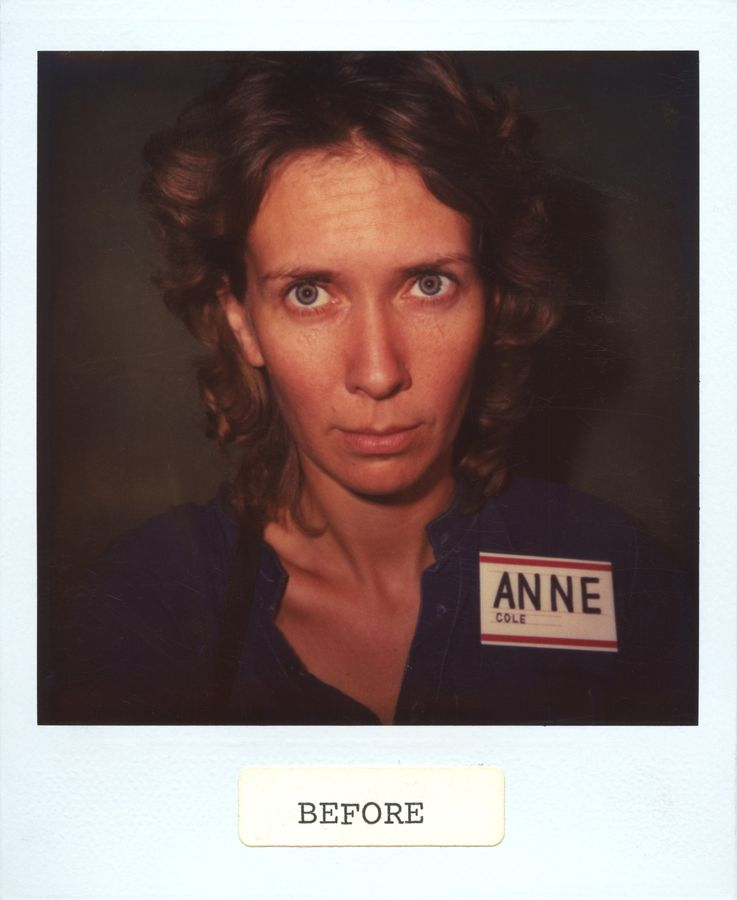
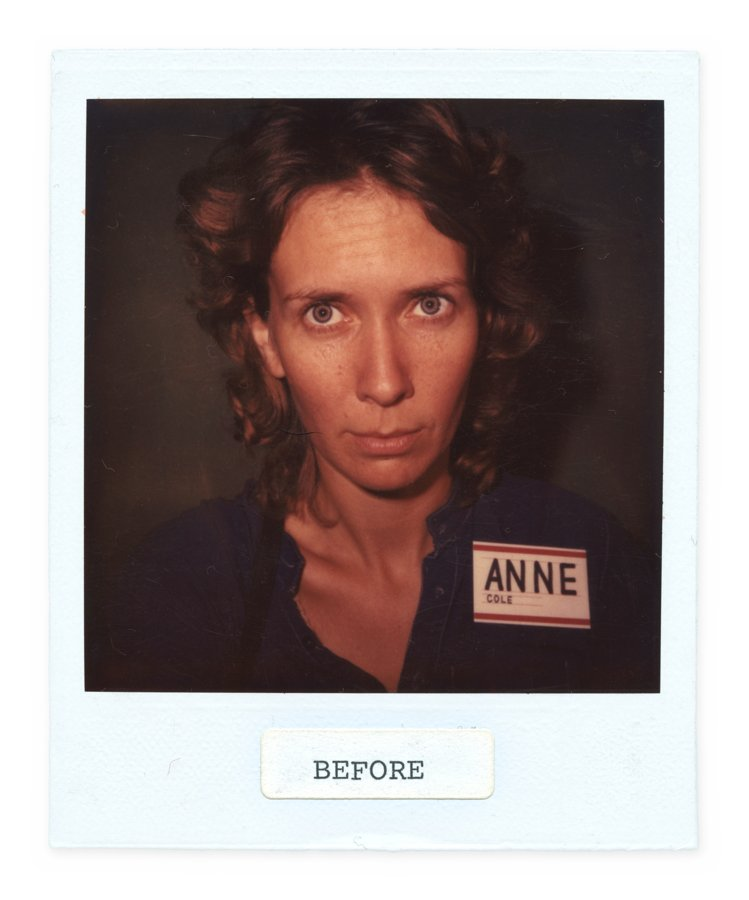
Sync captions with portfolio: venue years, Polaroid, Ambulance Chasers dims, studio view
Claude-Session: https://claude.ai/code/session_01JVoaYGW79WXXRpj5iE4Fxm

diff --git a/projects/contact.html b/projects/contact.html
@@ -9,5 +9,5 @@
 <link rel="apple-touch-icon" href="../apple-touch-icon.png">
 </head><body>
 <header><a class="name" href="../index.html">Abraham Adams</a><nav><a href="../index.html" aria-current="page">projects</a><a href="../books.html">books</a><a href="../exhibitions.html">exhibitions</a><a href="../cv.html">cv</a><a href="../info.html">info</a></nav></header>
-<main><article class="work"><h1>“Contact,” 2024–</h1><p class="desc">“Contact” is a series of views through antique encyclopedia pages held up to light so that front and back form chance combinations of text and image.</p><p class="essay-link"><button type="button" onclick="document.getElementById('essay').showModal()">Read David Joselit’s foreword to “Contact”</button></p><dialog id="essay" class="essay" onclick="if(event.target===this)this.close()"><div class="essay-inner"><button type="button" class="essay-close" aria-label="Close" onclick="this.closest('dialog').close()">×</button><p class="essay-kicker">Foreword</p><h2>“Contact”</h2><p class="essay-by">David Joselit</p><p>As a noun, <em>contact</em> denotes diverse forms of interpersonal encounter across different scales—a clash of civilizations (<em>first contact</em>), an erotic adventure (<em>sexual contact</em>), physical tournaments (<em>contact sports</em>), or someone’s personal information stored in your phone. Each type of contact constitutes a social configuration with its own choreography and power relations. In photography, as in other mechanical procedures, <em>contact</em> has a technical meaning: a contact print is one whose image appears by placing a negative on a photo-sensitive surface and then applying light in the controlled setting of a darkroom. As a verb, <em>contact</em> performs the imperative to engage (“Contact me immediately,” says every text ever). The photographs in Abraham Adams’ <em>Contact</em> rearticulate these three dimensions of contact—the physical, the technical, and the imperative—in enactments of connection across difference and loss.</p><p>Adams’ photographs emerge from a chain of physical touch: each print is made from a section cut from an <em>Encyclopedia Britannica</em> owned by the artist’s father who died in 1988 while moving his books. The touch of the father is reanimated by the touch of the son suggesting an oedipal drama. The cut-outs follow the outlines of diagrams on one side of pages with unrelated texts on the other. These sheets are then mounted on a window and photographed with a Macro lens. The daylight shining into Adams’ “lightroom” studio creates a kind of contact print in which both sides of the thin paper, one representing a diagram and the other a text, appear superimposed upon one another in the resulting image (where the verso is seen in reverse). In short, through contact with the sun (homophonic with the son), the readymade paper negative brings two faces of a single page into graphic contact with one another. There is a poignancy in any sheet of printed paper—the page is a single material, but what is printed on either side can never touch, never be seen at once. Adams’ photographs stage an imperative to make contact across this conjuncture of sameness and difference—the Janus face of the printed page. In the end this is not an oedipal but an anti-oedipal form of photography: the sameness and difference represented in the relation between father and son, who are joined by shared genetic and family heritage, but who like the sheet of paper, have two distinct faces, two distinct relations to language, are not submitted to an oedipal contest for domination as Freudian theory would indicate. Instead, they are held in fraternal suspension as a chimerical hybrid.</p><p>Knowing the source of the photographs in <em>Contact</em> enriches the work, but its anti-oedipal dimension is legible without the backstory. In later theorizations of the Oedipus complex, flowing from the Freudian revision of Jacques Lacan, oedipal authority is aligned with linguistic authority—what Lacan called “The Name of the Father.” In Adams’ photographs the authority of language is disseminated through its contamination by diagrammatic representations (as well as the cutting of semantic units and the reversal of letters). Text is radically spatialized, returned to the sources of alphabetic signs as images. These photographs are poems of a very specific kind because their poetics articulates the diagrammatic and the syntagmatic together as they are embedded in the skin of the page, whose half-tone “pigmentation” and pulpy blemishes are perfectly visible in the prints. Knowledge is a form of tattooing here, which rhymes with Adams’ method of cutting. It is a cutting without castration; a form of loss—of language (and of the father)—that need not result in submission to the law. An anti-oedipal photography.</p></div></dialog><figure><img src="../img/contact-01.jpg?v=aa30c2a7" width="2000" height="2000" alt="Contact, 2024" loading="eager"><figcaption><em>Contact</em>, 2024. Framed ink-jet print, 31 cm square. Installation view, “Zygote,” Culterim Gallery, Berlin.</figcaption></figure><figure><img src="../img/contact-02.jpg?v=1a8912a0" width="2400" height="2400" alt="Detail" loading="lazy"><figcaption>Detail.</figcaption></figure><figure><img src="../img/contact-03.jpg?v=68327e1c" width="1920" height="2400" alt="Contact, 2024" loading="lazy"><figcaption><em>Contact</em>, 2024. Framed ink-jet print, 31 cm square. Installation view, “Zygote,” Culterim Gallery, Berlin.</figcaption></figure><figure><img src="../img/contact-04.jpg?v=c5fde0a6" width="2400" height="2400" alt="Detail" loading="lazy"><figcaption>Detail.</figcaption></figure><figure><img src="../img/contact-05.jpg?v=f6220687" width="1920" height="2400" alt="Contact, 2024" loading="lazy"><figcaption><em>Contact</em>, 2024. Framed ink-jet print, 31.5 × 29.5 cm. Installation view, “Zygote,” Culterim Gallery, Berlin.</figcaption></figure><figure><img src="../img/contact-06.jpg?v=7635da03" width="2180" height="1774" alt="Detail" loading="lazy"><figcaption>Detail.</figcaption></figure><figure><img src="../img/contact-07.jpg?v=776ce2a5" width="1920" height="2400" alt="Contact, 2024" loading="lazy"><figcaption><em>Contact</em>, 2024. Framed ink-jet print, 31 cm square.</figcaption></figure><figure><img src="../img/contact-08.jpg?v=7cf73221" width="1920" height="2400" alt="Contact, 2024" loading="lazy"><figcaption><em>Contact</em>, 2024. Framed ink-jet print, 31 cm square.</figcaption></figure></article></main>
+<main><article class="work"><h1>“Contact,” 2024–</h1><p class="desc">“Contact” is a series of views through antique encyclopedia pages held up to light so that front and back form chance combinations of text and image.</p><p class="essay-link"><button type="button" onclick="document.getElementById('essay').showModal()">Read David Joselit’s foreword to “Contact”</button></p><dialog id="essay" class="essay" onclick="if(event.target===this)this.close()"><div class="essay-inner"><button type="button" class="essay-close" aria-label="Close" onclick="this.closest('dialog').close()">×</button><p class="essay-kicker">Foreword</p><h2>“Contact”</h2><p class="essay-by">David Joselit</p><p>As a noun, <em>contact</em> denotes diverse forms of interpersonal encounter across different scales—a clash of civilizations (<em>first contact</em>), an erotic adventure (<em>sexual contact</em>), physical tournaments (<em>contact sports</em>), or someone’s personal information stored in your phone. Each type of contact constitutes a social configuration with its own choreography and power relations. In photography, as in other mechanical procedures, <em>contact</em> has a technical meaning: a contact print is one whose image appears by placing a negative on a photo-sensitive surface and then applying light in the controlled setting of a darkroom. As a verb, <em>contact</em> performs the imperative to engage (“Contact me immediately,” says every text ever). The photographs in Abraham Adams’ <em>Contact</em> rearticulate these three dimensions of contact—the physical, the technical, and the imperative—in enactments of connection across difference and loss.</p><p>Adams’ photographs emerge from a chain of physical touch: each print is made from a section cut from an <em>Encyclopedia Britannica</em> owned by the artist’s father who died in 1988 while moving his books. The touch of the father is reanimated by the touch of the son suggesting an oedipal drama. The cut-outs follow the outlines of diagrams on one side of pages with unrelated texts on the other. These sheets are then mounted on a window and photographed with a Macro lens. The daylight shining into Adams’ “lightroom” studio creates a kind of contact print in which both sides of the thin paper, one representing a diagram and the other a text, appear superimposed upon one another in the resulting image (where the verso is seen in reverse). In short, through contact with the sun (homophonic with the son), the readymade paper negative brings two faces of a single page into graphic contact with one another. There is a poignancy in any sheet of printed paper—the page is a single material, but what is printed on either side can never touch, never be seen at once. Adams’ photographs stage an imperative to make contact across this conjuncture of sameness and difference—the Janus face of the printed page. In the end this is not an oedipal but an anti-oedipal form of photography: the sameness and difference represented in the relation between father and son, who are joined by shared genetic and family heritage, but who like the sheet of paper, have two distinct faces, two distinct relations to language, are not submitted to an oedipal contest for domination as Freudian theory would indicate. Instead, they are held in fraternal suspension as a chimerical hybrid.</p><p>Knowing the source of the photographs in <em>Contact</em> enriches the work, but its anti-oedipal dimension is legible without the backstory. In later theorizations of the Oedipus complex, flowing from the Freudian revision of Jacques Lacan, oedipal authority is aligned with linguistic authority—what Lacan called “The Name of the Father.” In Adams’ photographs the authority of language is disseminated through its contamination by diagrammatic representations (as well as the cutting of semantic units and the reversal of letters). Text is radically spatialized, returned to the sources of alphabetic signs as images. These photographs are poems of a very specific kind because their poetics articulates the diagrammatic and the syntagmatic together as they are embedded in the skin of the page, whose half-tone “pigmentation” and pulpy blemishes are perfectly visible in the prints. Knowledge is a form of tattooing here, which rhymes with Adams’ method of cutting. It is a cutting without castration; a form of loss—of language (and of the father)—that need not result in submission to the law. An anti-oedipal photography.</p></div></dialog><figure><img src="../img/contact-01.jpg?v=aa30c2a7" width="2000" height="2000" alt="Contact, 2024" loading="eager"><figcaption><em>Contact</em>, 2024. Framed ink-jet print, 31 cm square. Installation view, “Zygote,” Culterim Gallery, Berlin, 2024.</figcaption></figure><figure><img src="../img/contact-02.jpg?v=1a8912a0" width="2400" height="2400" alt="Detail" loading="lazy"><figcaption>Detail.</figcaption></figure><figure><img src="../img/contact-03.jpg?v=68327e1c" width="1920" height="2400" alt="Contact, 2024" loading="lazy"><figcaption><em>Contact</em>, 2024. Framed ink-jet print, 31 cm square. Installation view, “Zygote,” Culterim Gallery, Berlin, 2024.</figcaption></figure><figure><img src="../img/contact-04.jpg?v=c5fde0a6" width="2400" height="2400" alt="Detail" loading="lazy"><figcaption>Detail.</figcaption></figure><figure><img src="../img/contact-05.jpg?v=f6220687" width="1920" height="2400" alt="Contact, 2024" loading="lazy"><figcaption><em>Contact</em>, 2024. Framed ink-jet print, 31.5 × 29.5 cm. Installation view, “Zygote,” Culterim Gallery, Berlin, 2024.</figcaption></figure><figure><img src="../img/contact-06.jpg?v=7635da03" width="2180" height="1774" alt="Detail" loading="lazy"><figcaption>Detail.</figcaption></figure><figure><img src="../img/contact-07.jpg?v=776ce2a5" width="1920" height="2400" alt="Contact, 2024" loading="lazy"><figcaption><em>Contact</em>, 2024. Framed ink-jet print, 31 cm square.</figcaption></figure><figure><img src="../img/contact-08.jpg?v=7cf73221" width="1920" height="2400" alt="Contact, 2024" loading="lazy"><figcaption><em>Contact</em>, 2024. Framed ink-jet print, 31 cm square.</figcaption></figure></article></main>
 </body></html>

diff --git a/projects/a-conversation-about-trees.html b/projects/a-conversation-about-trees.html
@@ -9,5 +9,5 @@
 <link rel="apple-touch-icon" href="../apple-touch-icon.png">
 </head><body>
 <header><a class="name" href="../index.html">Abraham Adams</a><nav><a href="../index.html" aria-current="page">projects</a><a href="../books.html">books</a><a href="../exhibitions.html">exhibitions</a><a href="../cv.html">cv</a><a href="../info.html">info</a></nav></header>
-<main><article class="work"><h1><em>A Conversation About Trees</em>, 2025</h1><p class="desc"><em>A Conversation About Trees</em> is a film in which Adams discusses, with a hired psychoanalyst, the text of a dream reported by an artist who abandoned his practice. Their conversation is interspersed with texts by thinkers invited to consult, including David Joselit and Peter Szendy, on how that artist’s career might be continued without him. The film is set to footage of trees in the backgrounds of portraits of people Adams knew who have died. A companion to <a href="more-heavens.html">“More Heavens,”</a> it debuted at Flowers Fest, Essex Flowers, New York, on September 5, 2025.</p><p class="essay-link"><button type="button" onclick="var d=document.getElementById('film');d.querySelector('iframe').src='https://drive.google.com/file/d/1cf2J5qs1f9mSkI3Mwp0rMFJhp1JUy4nH/preview';d.showModal()">Watch the film here</button></p><dialog id="film" class="film" onclick="if(event.target===this)this.close()" onclose="this.querySelector('iframe').src='about:blank'"><button type="button" class="film-close" aria-label="Close" onclick="this.closest('dialog').close()">×</button><div class="embed"><iframe src="about:blank" allow="autoplay; fullscreen" allowfullscreen title="A Conversation About Trees"></iframe></div></dialog><figure><img src="../img/a-conversation-about-trees-01.jpg?v=c77eef64" width="1448" height="1086" alt="A Conversation About Trees, 2025" loading="eager"><figcaption><em>A Conversation About Trees</em>, 2025. Digital video, 57 min. Installation view, “Memory Put a Walkway,” Lime Wharf, London.</figcaption></figure><figure><img src="../img/a-conversation-about-trees-02.jpg?v=1a178ca3" width="2400" height="1261" alt="Still" loading="lazy"><figcaption>Still.</figcaption></figure></article></main>
+<main><article class="work"><h1><em>A Conversation About Trees</em>, 2025</h1><p class="desc"><em>A Conversation About Trees</em> is a film in which Adams discusses, with a hired psychoanalyst, the text of a dream reported by an artist who abandoned his practice. Their conversation is interspersed with texts by thinkers invited to consult, including David Joselit and Peter Szendy, on how that artist’s career might be continued without him. The film is set to footage of trees in the backgrounds of portraits of people Adams knew who have died. A companion to <a href="more-heavens.html">“More Heavens,”</a> it debuted at Flowers Fest, Essex Flowers, New York, on September 5, 2025.</p><p class="essay-link"><button type="button" onclick="var d=document.getElementById('film');d.querySelector('iframe').src='https://drive.google.com/file/d/1cf2J5qs1f9mSkI3Mwp0rMFJhp1JUy4nH/preview';d.showModal()">Watch the film here</button></p><dialog id="film" class="film" onclick="if(event.target===this)this.close()" onclose="this.querySelector('iframe').src='about:blank'"><button type="button" class="film-close" aria-label="Close" onclick="this.closest('dialog').close()">×</button><div class="embed"><iframe src="about:blank" allow="autoplay; fullscreen" allowfullscreen title="A Conversation About Trees"></iframe></div></dialog><figure><img src="../img/a-conversation-about-trees-01.jpg?v=c77eef64" width="1448" height="1086" alt="A Conversation About Trees, 2025" loading="eager"><figcaption><em>A Conversation About Trees</em>, 2025. Digital video, 57 min. Installation view, “Memory Put a Walkway,” Lime Wharf, London, 2025.</figcaption></figure><figure><img src="../img/a-conversation-about-trees-02.jpg?v=1a178ca3" width="2400" height="1261" alt="Still" loading="lazy"><figcaption>Still.</figcaption></figure></article></main>
 </body></html>

diff --git a/projects/ambulance-chasers.html b/projects/ambulance-chasers.html
@@ -9,5 +9,5 @@
 <link rel="apple-touch-icon" href="../apple-touch-icon.png">
 </head><body>
 <header><a class="name" href="../index.html">Abraham Adams</a><nav><a href="../index.html" aria-current="page">projects</a><a href="../books.html">books</a><a href="../exhibitions.html">exhibitions</a><a href="../cv.html">cv</a><a href="../info.html">info</a></nav></header>
-<main><article class="work"><h1><em>Ambulance Chasers</em>, MIT Press, 2022</h1><p class="desc"><em>Ambulance Chasers</em> is a series of photographic diptychs: on the left, a close-up on a personal-injury lawyer from a billboard; on the right, the landscape it is facing. A text by the art historian David Joselit runs alongside the series, and the book concludes with a long conversation between Adams and Joselit. <a href="https://mitpress.mit.edu/9780262047104/ambulance-chasers/">MIT Press ↗</a></p><figure><img src="../img/ambulance-chasers-01.jpg?v=741bd073" width="2400" height="1920" alt="Ambulance Chasers, MIT Press, 2022" loading="eager"><figcaption><em>Ambulance Chasers</em>, MIT Press, 2022. Artist’s book with a text by David Joselit, 136 pp., 62 figures, 10 × 9 in.</figcaption></figure><figure><img src="../img/ambulance-chasers-02.jpg?v=e8bd89e0" width="2400" height="2160" alt="Ambulance Chasers, 2022" loading="lazy"><figcaption><em>Ambulance Chasers</em>, 2022. Digital color photographs, each 10 × 9 in.</figcaption></figure><figure><img src="../img/ambulance-chasers-03.jpg?v=51eb50c9" width="2400" height="2400" alt="Detail" loading="lazy"><figcaption>Detail.</figcaption></figure><figure><img src="../img/ambulance-chasers-04.jpg?v=6d0a6171" width="2400" height="2160" alt="Ambulance Chasers, 2022" loading="lazy"><figcaption><em>Ambulance Chasers</em>, 2022. Digital color photographs, each 10 × 9 in.</figcaption></figure><figure><img src="../img/ambulance-chasers-06.jpg?v=f785861e" width="2400" height="2160" alt="Ambulance Chasers, 2022" loading="lazy"><figcaption><em>Ambulance Chasers</em>, 2022. Digital color photographs, each 10 × 9 in.</figcaption></figure></article></main>
+<main><article class="work"><h1><em>Ambulance Chasers</em>, MIT Press, 2022</h1><p class="desc"><em>Ambulance Chasers</em> is a series of photographic diptychs: on the left, a close-up on a personal-injury lawyer from a billboard; on the right, the landscape it is facing. A text by the art historian David Joselit runs alongside the series, and the book concludes with a long conversation between Adams and Joselit. <a href="https://mitpress.mit.edu/9780262047104/ambulance-chasers/">MIT Press ↗</a></p><figure><img src="../img/ambulance-chasers-01.jpg?v=741bd073" width="2400" height="1920" alt="Ambulance Chasers, MIT Press, 2022" loading="eager"><figcaption><em>Ambulance Chasers</em>, MIT Press, 2022. Artist’s book with a text by David Joselit, 136 pp., 62 figures, 10 × 9 in.</figcaption></figure><figure><img src="../img/ambulance-chasers-02.jpg?v=e8bd89e0" width="2400" height="2160" alt="Ambulance Chasers, 2022" loading="lazy"><figcaption><em>Ambulance Chasers</em>, 2022. Digital color photographs, 10 × 9 in.</figcaption></figure><figure><img src="../img/ambulance-chasers-03.jpg?v=51eb50c9" width="2400" height="2400" alt="Detail" loading="lazy"><figcaption>Detail.</figcaption></figure><figure><img src="../img/ambulance-chasers-04.jpg?v=6d0a6171" width="2400" height="2160" alt="Ambulance Chasers, 2022" loading="lazy"><figcaption><em>Ambulance Chasers</em>, 2022. Digital color photographs, 10 × 9 in.</figcaption></figure><figure><img src="../img/ambulance-chasers-06.jpg?v=f785861e" width="2400" height="2160" alt="Ambulance Chasers, 2022" loading="lazy"><figcaption><em>Ambulance Chasers</em>, 2022. Digital color photographs, 10 × 9 in.</figcaption></figure></article></main>
 </body></html>

diff --git a/projects/more-heavens.html b/projects/more-heavens.html
@@ -9,5 +9,5 @@
 <link rel="apple-touch-icon" href="../apple-touch-icon.png">
 </head><body>
 <header><a class="name" href="../index.html">Abraham Adams</a><nav><a href="../index.html" aria-current="page">projects</a><a href="../books.html">books</a><a href="../exhibitions.html">exhibitions</a><a href="../cv.html">cv</a><a href="../info.html">info</a></nav></header>
-<main><article class="work"><h1>“More Heavens,” 2025–</h1><p class="desc">“More Heavens” draws on skilled assistants and a panel of eminent consultants, including David Joselit, Peter Szendy, and Alex Jovanovich, to speculatively continue the career of an artist who abandoned his practice. The series proceeds from a re-creation, from Adams’s memory, of the artist’s final, lost work.</p><figure><img src="../img/more-heavens-01.jpg?v=1e69b1fb" width="2400" height="1600" alt="More Heavens, 2025" loading="eager"><figcaption><em>More Heavens</em>, 2025. Oil paint on primed canvas, 190 × 280 cm. Installation view, “Memory Put a Walkway,” Lime Wharf, London.</figcaption></figure><figure><img src="../img/more-heavens-02.jpg?v=e354844e" width="2400" height="1600" alt="Detail" loading="lazy"><figcaption>Detail.</figcaption></figure><figure><img src="../img/more-heavens-03.jpg?v=b160031a" width="2400" height="1666" alt="More Heavens, 2025" loading="lazy"><figcaption><em>More Heavens</em>, 2025. Oil paint on primed canvas, 190 × 280 cm.</figcaption></figure><figure><img src="../img/more-heavens-05.jpg?v=118479b7" width="2400" height="1628" alt="More Heavens, 2025" loading="lazy"><figcaption><em>More Heavens</em>, 2025. Oil paint on primed canvas, 190 × 280 cm.</figcaption></figure><figure><img src="../img/more-heavens-07.jpg?v=62e4813f" width="2400" height="1627" alt="More Heavens, 2025" loading="lazy"><figcaption><em>More Heavens</em>, 2025. Oil paint on primed canvas, 190 × 280 cm.</figcaption></figure></article></main>
+<main><article class="work"><h1>“More Heavens,” 2025–</h1><p class="desc">“More Heavens” draws on skilled assistants and a panel of eminent consultants, including David Joselit, Peter Szendy, and Alex Jovanovich, to speculatively continue the career of an artist who abandoned his practice. The series proceeds from a re-creation, from Adams’s memory, of the artist’s final, lost work.</p><figure><img src="../img/more-heavens-01.jpg?v=1e69b1fb" width="2400" height="1600" alt="More Heavens, 2025" loading="eager"><figcaption><em>More Heavens</em>, 2025. Oil paint on primed canvas, 190 × 280 cm. Installation view, “Memory Put a Walkway,” Lime Wharf, London, 2025.</figcaption></figure><figure><img src="../img/more-heavens-02.jpg?v=e354844e" width="2400" height="1600" alt="Detail" loading="lazy"><figcaption>Detail.</figcaption></figure><figure><img src="../img/more-heavens-03.jpg?v=b160031a" width="2400" height="1666" alt="More Heavens, 2025" loading="lazy"><figcaption><em>More Heavens</em>, 2025. Oil paint on primed canvas, 190 × 280 cm.</figcaption></figure><figure><img src="../img/more-heavens-05.jpg?v=118479b7" width="2400" height="1628" alt="More Heavens, 2025" loading="lazy"><figcaption><em>More Heavens</em>, 2025. Oil paint on primed canvas, 190 × 280 cm.</figcaption></figure><figure><img src="../img/more-heavens-07.jpg?v=62e4813f" width="2400" height="1627" alt="More Heavens, 2025" loading="lazy"><figcaption><em>More Heavens</em>, 2025. Oil paint on primed canvas, 190 × 280 cm.</figcaption></figure></article></main>
 </body></html>

diff --git a/projects/installation-for-a-photograph.html b/projects/installation-for-a-photograph.html
@@ -9,5 +9,5 @@
 <link rel="apple-touch-icon" href="../apple-touch-icon.png">
 </head><body>
 <header><a class="name" href="../index.html">Abraham Adams</a><nav><a href="../index.html" aria-current="page">projects</a><a href="../books.html">books</a><a href="../exhibitions.html">exhibitions</a><a href="../cv.html">cv</a><a href="../info.html">info</a></nav></header>
-<main><article class="work"><h1><em>Installation for a Photograph</em>, 2014–15</h1><p class="desc"><em>Installation for a Photograph</em> (with Karin Schneider) is an installation responding to an original work by Andy Warhol displayed face-down on the floor.</p><figure><img src="../img/installation-for-a-photograph-01.jpg?v=4fceab44" width="1798" height="2400" alt="Installation for a Photograph, 2014 (with Karin Schneider and John Miller)" loading="eager"><figcaption><em>Installation for a Photograph</em>, 2014 (with Karin Schneider and John Miller). Installation, dimensions variable. Shown in “No Games Inside the Labyrinth,” Galerie Barbara Weiss, Berlin.</figcaption></figure><figure><img src="../img/installation-for-a-photograph-03.jpg?v=4e3d8eec" width="1600" height="1139" alt="Installation view" loading="lazy"><figcaption>Installation view, “No Games Inside the Labyrinth,” Galerie Barbara Weiss, Berlin, 2014.</figcaption></figure><figure><img src="../img/installation-for-a-photograph-04.jpg?v=ad0a1994" width="1600" height="1234" alt="Installation view" loading="lazy"><figcaption>Installation view, “No Games Inside the Labyrinth,” Galerie Barbara Weiss, Berlin, 2014.</figcaption></figure></article></main>
+<main><article class="work"><h1><em>Installation for a Photograph</em>, 2014–15</h1><p class="desc"><em>Installation for a Photograph</em> (with Karin Schneider) is an installation responding to an original work by Andy Warhol displayed face-down on the floor.</p><figure><img src="../img/installation-for-a-photograph-01.jpg?v=4fceab44" width="1798" height="2400" alt="Installation for a Photograph, 2014 (with Karin Schneider and John Miller)" loading="eager"><figcaption><em>Installation for a Photograph</em>, 2014 (with Karin Schneider and John Miller). Installation, dimensions variable. Shown in “No Games Inside the Labyrinth,” Galerie Barbara Weiss, Berlin, 2014.</figcaption></figure><figure><img src="../img/installation-for-a-photograph-03.jpg?v=4e3d8eec" width="1600" height="1139" alt="Installation view" loading="lazy"><figcaption>Installation view, “No Games Inside the Labyrinth,” Galerie Barbara Weiss, Berlin, 2014.</figcaption></figure><figure><img src="../img/installation-for-a-photograph-04.jpg?v=ad0a1994" width="1600" height="1234" alt="Installation view" loading="lazy"><figcaption>Installation view, “No Games Inside the Labyrinth,” Galerie Barbara Weiss, Berlin, 2014.</figcaption></figure></article></main>
 </body></html>

diff --git a/projects/after.html b/projects/after.html
@@ -9,5 +9,5 @@
 <link rel="apple-touch-icon" href="../apple-touch-icon.png">
 </head><body>
 <header><a class="name" href="../index.html">Abraham Adams</a><nav><a href="../index.html" aria-current="page">projects</a><a href="../books.html">books</a><a href="../exhibitions.html">exhibitions</a><a href="../cv.html">cv</a><a href="../info.html">info</a></nav></header>
-<main><article class="work"><h1>“After,” 2021–</h1><p class="desc">“After” excerpts WWI-era family-archive photographs inside frames shaped after marks in midcentury automatic drawings.</p><figure><img src="../img/after-01.jpg?v=c30c4563" width="2400" height="1800" alt="After, 2024" loading="eager"><figcaption><em>After</em>, 2024. Ink-jet prints in artist’s frames, 89.5 × 56 cm and 63.5 × 81 cm. Shown in “After,” ASC Gallery, London.</figcaption></figure><figure><img src="../img/after-03.jpg?v=55306f29" width="2400" height="1800" alt="After, 2023" loading="lazy"><figcaption><em>After</em>, 2023. Ink-jet print in artist’s frame, 110 × 210 × 6 cm. Shown in the Royal College of Art Graduate Degree Show, London.</figcaption></figure><figure><img src="../img/after-05.jpg?v=2a5b522c" width="2400" height="1800" alt="After, 2022" loading="lazy"><figcaption><em>After</em>, 2022. C-print in artist’s frame, 110 × 82 cm.</figcaption></figure><figure><img src="../img/after-07.jpg?v=6fd282ea" width="1800" height="1350" alt="After, work in progress" loading="lazy"><figcaption><em>After</em>, work in progress. Ink-jet print in artist’s frame, 110 × 65 cm.</figcaption></figure></article></main>
+<main><article class="work"><h1>“After,” 2021–</h1><p class="desc">“After” excerpts WWI-era family-archive photographs inside frames shaped after marks in midcentury automatic drawings.</p><figure><img src="../img/after-01.jpg?v=c30c4563" width="2400" height="1800" alt="After, 2024" loading="eager"><figcaption><em>After</em>, 2024. Ink-jet prints in artist’s frames, 89.5 × 56 cm and 63.5 × 81 cm. Shown in “After,” ASC Gallery, London, 2024.</figcaption></figure><figure><img src="../img/after-03.jpg?v=55306f29" width="2400" height="1800" alt="After, 2023" loading="lazy"><figcaption><em>After</em>, 2023. Ink-jet print in artist’s frame, 110 × 210 × 6 cm. Shown in the Royal College of Art Graduate Degree Show, London, 2023.</figcaption></figure><figure><img src="../img/after-05.jpg?v=2a5b522c" width="2400" height="1800" alt="After, 2022" loading="lazy"><figcaption><em>After</em>, 2022. C-print in artist’s frame, 110 × 82 cm.</figcaption></figure><figure><img src="../img/after-07.jpg?v=6fd282ea" width="1800" height="1350" alt="After, work in progress" loading="lazy"><figcaption><em>After</em>, work in progress. Ink-jet print in artist’s frame, 110 × 65 cm.</figcaption></figure></article></main>
 </body></html>

diff --git a/projects/my-dark-blue-rain-drenched-flower.html b/projects/my-dark-blue-rain-drenched-flower.html
@@ -9,5 +9,5 @@
 <link rel="apple-touch-icon" href="../apple-touch-icon.png">
 </head><body>
 <header><a class="name" href="../index.html">Abraham Adams</a><nav><a href="../index.html" aria-current="page">projects</a><a href="../books.html">books</a><a href="../exhibitions.html">exhibitions</a><a href="../cv.html">cv</a><a href="../info.html">info</a></nav></header>
-<main><article class="work"><h1><em>My Dark-Blue Rain-Drenched Flower</em>, 2015</h1><p class="desc"><em>My Dark-Blue Rain-Drenched Flower</em> is a wireless printer installed in the rafters of a former factory, printing James Joyce’s <em>Ulysses</em> one letter per page, extending the full-page “S” that opens the novel’s 1922 first edition.</p><figure class="video"><div class="embed"><iframe src="https://player.vimeo.com/video/195312806?dnt=1" allow="fullscreen; picture-in-picture" allowfullscreen loading="lazy" title="My Dark-Blue Rain-Drenched Flower"></iframe></div></figure><figure><img src="../img/my-dark-blue-rain-drenched-flower-01.jpg?v=289b7125" width="1526" height="1080" alt="My Dark-Blue Rain-Drenched Flower, 2015" loading="eager"><figcaption><em>My Dark-Blue Rain-Drenched Flower</em>, 2015. Installation, dimensions variable. Commission for Knockdown Center, New York.</figcaption></figure><figure><img src="../img/my-dark-blue-rain-drenched-flower-02.jpg?v=13102500" width="1584" height="884" alt="Installation view, Knockdown Center, 2015" loading="lazy"><figcaption>Installation view, Knockdown Center, 2015.</figcaption></figure></article></main>
+<main><article class="work"><h1><em>My Dark-Blue Rain-Drenched Flower</em>, 2015</h1><p class="desc"><em>My Dark-Blue Rain-Drenched Flower</em> is a wireless printer installed in the rafters of a former factory, printing James Joyce’s <em>Ulysses</em> one letter per page, extending the full-page “S” that opens the novel’s 1922 first edition.</p><figure class="video"><div class="embed"><iframe src="https://player.vimeo.com/video/195312806?dnt=1" allow="fullscreen; picture-in-picture" allowfullscreen loading="lazy" title="My Dark-Blue Rain-Drenched Flower"></iframe></div></figure><figure><img src="../img/my-dark-blue-rain-drenched-flower-01.jpg?v=289b7125" width="1526" height="1080" alt="My Dark-Blue Rain-Drenched Flower, 2015" loading="eager"><figcaption><em>My Dark-Blue Rain-Drenched Flower</em>, 2015. Installation, dimensions variable. Commission for Knockdown Center, New York.</figcaption></figure><figure><img src="../img/my-dark-blue-rain-drenched-flower-02.jpg?v=13102500" width="1584" height="884" alt="Installation view, Knockdown Center, 2015" loading="lazy"><figcaption>Installation view, Knockdown Center, New York, 2015.</figcaption></figure></article></main>
 </body></html>

diff --git a/projects/before.html b/projects/before.html
@@ -9,5 +9,5 @@
 <link rel="apple-touch-icon" href="../apple-touch-icon.png">
 </head><body>
 <header><a class="name" href="../index.html">Abraham Adams</a><nav><a href="../index.html" aria-current="page">projects</a><a href="../books.html">books</a><a href="../exhibitions.html">exhibitions</a><a href="../cv.html">cv</a><a href="../info.html">info</a></nav></header>
-<main><article class="work"><h1>“Before,” 2016–</h1><p class="desc">“Before” is a collection of found “before and after” comparisons from print media with their “afters” taken away. A first selection was published as <em>Before</em> (Inpatient Press, 2016). <a href="https://inpatientpress.bigcartel.com/product/before-by-abraham-adams">Inpatient Press ↗</a></p><figure><img src="../img/before-01.jpg?v=3e3e2d51" width="2400" height="1920" alt="Before and Before, 2026, from “Before" loading="eager"><figcaption><em>Before and Before</em>, 2026, from “Before.” Found printed images in artist’s frame, 24 × 29 in. Shown in “Egg Tooth,” Old Head, Gainesville.</figcaption></figure><figure><img src="../img/before-02.jpg?v=68e5bf60" width="2398" height="2400" alt="Before, 2016" loading="lazy"><figcaption><em>Before</em>, 2016. Color photograph, 20 in. square.</figcaption></figure><figure><img src="../img/before-04.jpg?v=26b4a428" width="1966" height="2400" alt="Before, 2016" loading="lazy"><figcaption><em>Before</em>, 2016. Color photograph, 20 in. square.</figcaption></figure></article></main>
+<main><article class="work"><h1>“Before,” 2016–</h1><p class="desc">“Before” is a collection of found “before and after” comparisons from print media with their “afters” taken away. A first selection was published as <em>Before</em> (Inpatient Press, 2016). <a href="https://inpatientpress.bigcartel.com/product/before-by-abraham-adams">Inpatient Press ↗</a></p><figure><img src="../img/before-01.jpg?v=3e3e2d51" width="2400" height="1920" alt="Before and Before, 2026, from “Before" loading="eager"><figcaption><em>Before and Before</em>, 2026, from “Before.” Found printed images in artist’s frame, 24 × 29 in. Shown in “Egg Tooth,” Old Head, Gainesville, 2026.</figcaption></figure><figure><img src="../img/before-02.jpg?v=68e5bf60" width="2398" height="2400" alt="Before, 2016" loading="lazy"><figcaption><em>Before</em>, 2016. Color photograph, 20 in. square.</figcaption></figure><figure><img src="../img/before-04.jpg?v=b7710194" width="1996" height="2400" alt="Before, 2016" loading="lazy"><figcaption><em>Before</em>, 2016. Found Polaroid, 3 1/2 × 4 1/4 in.</figcaption></figure></article></main>
 </body></html>

diff --git a/projects/variations-for-the-healing.html b/projects/variations-for-the-healing.html
@@ -9,5 +9,5 @@
 <link rel="apple-touch-icon" href="../apple-touch-icon.png">
 </head><body>
 <header><a class="name" href="../index.html">Abraham Adams</a><nav><a href="../index.html" aria-current="page">projects</a><a href="../books.html">books</a><a href="../exhibitions.html">exhibitions</a><a href="../cv.html">cv</a><a href="../info.html">info</a></nav></header>
-<main><article class="work"><h1><em>Variations for the Healing</em>, 2025–26</h1><p class="desc"><em>Variations for the Healing</em> presents a text by John Cage in twelve pairs of letterpress iterations, each of which is “prepared” with a set of stamped quotation marks around arbitrarily selected words and phrases.</p><figure><img src="../img/variations-for-the-healing-01.jpg?v=37a6a7fd" width="1600" height="2400" alt="Variations for the Healing, 2025–26" loading="eager"><figcaption><em>Variations for the Healing</em>, 2025–26. Inks on paper, each 30.5 × 66 cm. Installation view, “Memory Put a Walkway,” Lime Wharf, London.</figcaption></figure><figure><img src="../img/variations-for-the-healing-03.jpg?v=08f56bd5" width="2400" height="1600" alt="Variations for the Healing" loading="lazy"></figure><figure><img src="../img/variations-for-the-healing-02.jpg?v=e52d23fb" width="2400" height="1800" alt="Studio view, 2025" loading="lazy"><figcaption>Studio view, 2025.</figcaption></figure></article></main>
+<main><article class="work"><h1><em>Variations for the Healing</em>, 2025–26</h1><p class="desc"><em>Variations for the Healing</em> presents a text by John Cage in twelve pairs of letterpress iterations, each of which is “prepared” with a set of stamped quotation marks around arbitrarily selected words and phrases.</p><figure><img src="../img/variations-for-the-healing-01.jpg?v=37a6a7fd" width="1600" height="2400" alt="Variations for the Healing, 2025–26" loading="eager"><figcaption><em>Variations for the Healing</em>, 2025–26. Inks on paper, each 30.5 × 66 cm. Installation view, “Memory Put a Walkway,” Lime Wharf, London, 2025.</figcaption></figure><figure><img src="../img/variations-for-the-healing-03.jpg?v=08f56bd5" width="2400" height="1600" alt="Variations for the Healing" loading="lazy"></figure><figure><img src="../img/variations-for-the-healing-02.jpg?v=e52d23fb" width="2400" height="1800" alt="Studio view, 2025" loading="lazy"><figcaption>Studio view, 2025.</figcaption></figure></article></main>
 </body></html>

diff --git a/projects/acheiropoieton.html b/projects/acheiropoieton.html
@@ -9,5 +9,5 @@
 <link rel="apple-touch-icon" href="../apple-touch-icon.png">
 </head><body>
 <header><a class="name" href="../index.html">Abraham Adams</a><nav><a href="../index.html" aria-current="page">projects</a><a href="../books.html">books</a><a href="../exhibitions.html">exhibitions</a><a href="../cv.html">cv</a><a href="../info.html">info</a></nav></header>
-<main><article class="work"><h1>“Acheiropoieton,” work in progress, 2026–</h1><p class="desc">“Acheiropoieton” is a series of images made by family-archive photographs imprinting themselves onto the backs of others over the course of 110 years in storage.</p><figure><img src="../img/acheiropoieton-01.jpg?v=82c823ce" width="1920" height="2400" alt="Boy, 2026–, from “Acheiropoieton" loading="eager"><figcaption><em>Boy</em>, 2026–, from “Acheiropoieton.” Digital color photograph, 16 × 24.5 in.</figcaption></figure><figure><img src="../img/acheiropoieton-02.jpg?v=83af1e94" width="1920" height="2400" alt="Man, 2026–, from “Acheiropoieton" loading="lazy"><figcaption><em>Man</em>, 2026–, from “Acheiropoieton.” Digital color photograph, 16 × 24.5 in.</figcaption></figure></article></main>
+<main><article class="work"><h1>“Acheiropoieton,” work in progress, 2026–</h1><p class="desc">“Acheiropoieton” is a series of images made by family-archive photographs imprinting themselves onto the backs of others over the course of 110 years in storage.</p><figure><img src="../img/acheiropoieton-01.jpg?v=82c823ce" width="1920" height="2400" alt="Boy, 2026–, from “Acheiropoieton" loading="eager"><figcaption><em>Boy</em>, 2026–, from “Acheiropoieton.” Digital color photograph, 16 × 24.5 in. Studio view.</figcaption></figure><figure><img src="../img/acheiropoieton-02.jpg?v=83af1e94" width="1920" height="2400" alt="Man, 2026–, from “Acheiropoieton" loading="lazy"><figcaption><em>Man</em>, 2026–, from “Acheiropoieton.” Digital color photograph, 16 × 24.5 in. Studio view.</figcaption></figure></article></main>
 </body></html>
